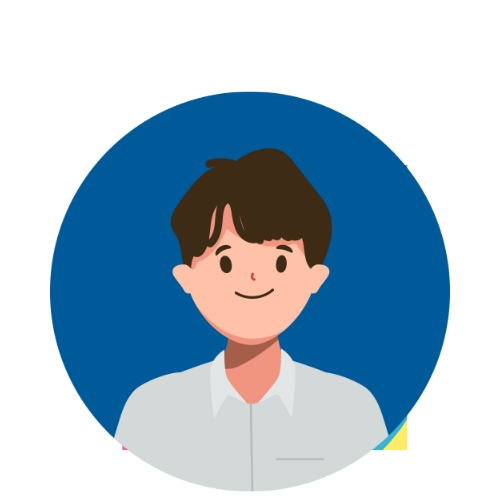
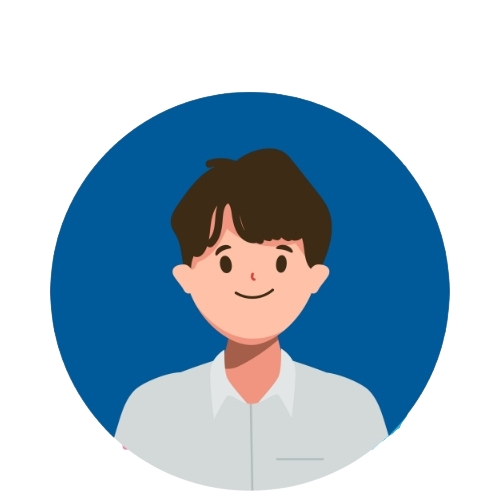
basic fixes

diff --git a/templates/register.html b/templates/register.html
@@ -4,10 +4,8 @@
     <meta charset="UTF-8">
     <meta name="viewport" content="width=device-width, initial-scale=1.0">
     <link rel="stylesheet" href="{{ url_for('static', filename='css/main.min.css') }}">
- 
-    <!-- Favicon -->
     <link rel="icon" type="image/png" href="{{ url_for('static', filename='assets/logowhite.png') }}">
-    <title>WealthWise - Register </title>
+    <title>WealthWise - Register</title>
     <style>
         .logo-container {
             text-align: center;
@@ -29,15 +27,28 @@
             color: #ffc107 !important;
             text-decoration: underline;
         }
-        .checklist {
+        .checklist-box {
+            display: none;
+            position: absolute;
+            background-color: #2c3e50; /* Dark blue to match theme */
+            color: #fff;
+            padding: 10px;
+            border-radius: 5px;
+            box-shadow: 0 0 10px rgba(0,0,0,0.5);
+            z-index: 1000;
             font-size: 0.9em;
-            color: #333;
         }
-        .checklist .valid {
-            color: green;
+        .checklist-item {
+            margin: 5px 0;
         }
-        .checklist .invalid {
-            color: white;
+        .checklist-item.valid {
+            color:rgb(186, 240, 8); /* Yellow from your theme */
+        }
+        .checklist-item.invalid {
+            color: #e74c3c; /* Red for invalid, contrasting yet thematic */
+        }
+        .form-outline:hover .checklist-box, .form-outline:focus-within .checklist-box {
+            display: block;
         }
     </style>
 </head>
@@ -73,7 +84,7 @@
 
                                     <form method="POST" action="{{ url_for('registration') }}">
                                         {{ form.hidden_tag() }}
-                                        <div data-mdb-input-init class="form-outline mb-4">
+                                        <div data-mdb-input-init class="form-outline mb-4 position-relative">
                                             {{ form.full_name.label(class="form-label text-white") }}
                                             <div class="input-group mb-4">
                                                 <span class="input-group-text" style="background-color: #D79922; border-color: #D79922;">
@@ -87,11 +98,11 @@
                                                     <div class="text-danger">{{ error }}</div>
                                                 {% endfor %}
                                             </div>
-                                            <div class="checklist" id="name-checklist">
-                                                <div id="name-format-check" class="invalid">Only letters and spaces</div>
+                                            <div class="checklist-box" id="name-checklist-box">
+                                                <div class="checklist-item" id="name-format-check">Only letters and spaces</div>
                                             </div>
                                         </div>
-                                        <div data-mdb-input-init class="form-outline mb-4">
+                                        <div data-mdb-input-init class="form-outline mb-4 position-relative">
                                             {{ form.email.label(class="form-label text-white") }}
                                             <div class="input-group mb-4">
                                                 <span class="input-group-text" style="background-color: #D79922; border-color: #D79922;">
@@ -104,11 +115,11 @@
                                                     <div class="text-danger">{{ error }}</div>
                                                 {% endfor %}
                                             </div>
-                                            <div class="checklist" id="email-checklist">
-                                                <div id="email-format-check" class="invalid">Valid email format (e.g., user@example.com)</div>
+                                            <div class="checklist-box" id="email-checklist-box">
+                                                <div class="checklist-item" id="email-format-check">Valid email format (e.g., user@example.com)</div>
                                             </div>
                                         </div>
-                                        <div data-mdb-input-init class="form-outline mb-4">
+                                        <div data-mdb-input-init class="form-outline mb-4 position-relative">
                                             {{ form.phone_num.label(class="form-label text-white") }}
                                             <div class="input-group mb-4">
                                                 <span class="input-group-text" style="background-color: #D79922; border-color: #D79922;">
@@ -122,8 +133,8 @@
                                                     <div class="text-danger">{{ error }}</div>
                                                 {% endfor %}
                                             </div>
-                                            <div class="checklist" id="phone-checklist">
-                                                <div id="phone-format-check" class="invalid">10 digits, optionally with +977</div>
+                                            <div class="checklist-box" id="phone-checklist-box">
+                                                <div class="checklist-item" id="phone-format-check">10 digits (optional +977)</div>
                                             </div>
                                         </div>
                                         <div data-mdb-input-init class="form-outline mb-4">
@@ -140,7 +151,7 @@
                                                 {% endfor %}
                                             </div>
                                         </div>
-                                        <div data-mdb-input-init class="form-outline mb-4">
+                                        <div data-mdb-input-init class="form-outline mb-4 position-relative">
                                             {{ form.password.label(class="form-label text-white") }}
                                             <div class="input-group mb-4">
                                                 <span class="input-group-text" style="background-color: #D79922; border-color: #D79922;">
@@ -153,15 +164,15 @@
                                                     <div class="text-danger">{{ error }}</div>
                                                 {% endfor %}
                                             </div>
-                                            <div class="checklist" id="password-checklist">
-                                                <div id="length-check" class="invalid">At least 8 characters</div>
-                                                <div id="uppercase-check" class="invalid">One uppercase letter</div>
-                                                <div id="lowercase-check" class="invalid">One lowercase letter</div>
-                                                <div id="number-check" class="invalid">One number</div>
-                                                <div id="special-check" class="invalid">One special character (e.g., @$!%*?&)</div>
-                                            </div>
+                    <div class="checklist-box" id="password-checklist-box">
+                        <div class="checklist-item" id="length-check">At least 8 characters</div>
+                        <div class="checklist-item" id="uppercase-check">Atleast one uppercase letter</div>
+                        <div class="checklist-item" id="lowercase-check">Atleast one lowercase letter</div>
+                        <div class="checklist-item" id="number-check">Atleast one number</div>
+                        <div class="checklist-item" id="special-check">Atleast one special character (e.g., @$!%*?&)</div>
+                    </div>
                                         </div>
-                                        <div data-mdb-input-init class="form-outline mb-4">
+                                        <div data-mdb-input-init class="form-outline mb-4 position-relative">
                                             {{ form.confirm_pw.label(class="form-label text-white") }}
                                             <div class="input-group mb-4">
                                                 <span class="input-group-text" style="background-color: #D79922; border-color: #D79922;">
@@ -174,8 +185,8 @@
                                                     <div class="text-danger">{{ error }}</div>
                                                 {% endfor %}
                                             </div>
-                                            <div class="checklist" id="confirm-pw-checklist">
-                                                <div id="match-check" class="invalid">Must match password</div>
+                                            <div class="checklist-box" id="confirm-pw-checklist-box">
+                                                <div class="checklist-item" id="match-check">Must match password</div>
                                             </div>
                                         </div>
                                         <div class="submit pt-1 mb-4">
@@ -235,7 +246,7 @@
         const phoneFormatCheck = document.getElementById("phone-format-check");
         phoneInput.addEventListener("input", function() {
             const phone = this.value.replace(/\s/g, '');
-            if (/^\+?977?\d{10}$/.test(phone)) {
+            if (/^\+?977?\d{10}$/.test(phone) || /^\d{10}$/.test(phone)) {
                 phoneFormatCheck.classList.remove("invalid");
                 phoneFormatCheck.classList.add("valid");
             } else {
@@ -306,5 +317,3 @@
         });
     });
 </script>
-</body>
-</html>

diff --git a/templates/add_expense.html b/templates/add_expense.html
@@ -191,7 +191,7 @@ body {
             <div class="row">
                 <div class="col-md-6">
                     <p><strong>Needs Budget:</strong> Rs {{ needs_spent|default(0)|float|round(2) }} / Rs {{ needs_limit|default(0)|float|round(2) }}</p>
-                    <div class="progress mb-2" style="height: 12px;">
+                    <div class="progress mb-2 bg-white" style="height: 12px;">
                         {% set needs_limit_float = needs_limit|default(0)|float %}
                         {% set needs_spent_float = needs_spent|default(0)|float %}
                         {% set needs_percentage = (needs_spent_float / needs_limit_float * 100) if needs_limit_float > 0 else 0 %}
@@ -228,7 +228,7 @@ body {
                 </div>
                 <div class="col-md-6">
                     <p><strong>Wants Budget:</strong> Rs {{ wants_spent|default(0)|float|round(2) }} / Rs {{ wants_limit|default(0)|float|round(2) }}</p>
-                    <div class="progress mb-2" style="height: 12px;">
+                    <div class="progress mb-2 bg-white" style="height: 12px;">
                         {% set wants_limit_float = wants_limit|default(0)|float %}
                         {% set wants_spent_float = wants_spent|default(0)|float %}
                         {% set wants_percentage = (wants_spent_float / wants_limit_float * 100) if wants_limit_float > 0 else 0 %}
